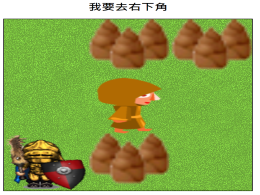
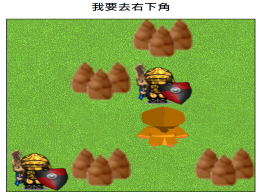
change title(batle) and size(4x4)

diff --git a/SimpleRPGPractice/main.js b/SimpleRPGPractice/main.js
@@ -1,12 +1,13 @@
 let mapArray, ctx, currentImgMain;
 let imgMountain, imgMain, imgEnemy;
-const gridLength = 200;
+const gridLength = 150;
 
 $(function(){
     mapArray = [
-        [0,1,1],
-        [0,0,0],
-        [3,1,2]
+        [0,0,1,0],
+        [0,1,3,0],
+        [0,0,0,0],
+        [3,1,2,1]
     ]; //0-可走、1-障礙、2-終點、3-敵人
     ctx = $("#myCanvas")[0].getContext("2d");
 
@@ -91,7 +92,7 @@ $(document).on("keydown",function(event){
     console.log(`TargetImag(${targetImag.x},${targetImag.y})`);
     console.log(`TargetBlcok(${targetImag.x},${targetImag.y})`);
 
-    if(targetImag.x<=400 && targetImag.x>=0 && targetImag.y <=400 && targetImag.y >=0){
+    if(targetImag.x<=450 && targetImag.x>=0 && targetImag.y <=450 && targetImag.y >=0){
         targetBlock.x = targetImag.y / gridLength;
         targetBlock.y = targetImag.x / gridLength;
     }else{
@@ -117,7 +118,9 @@ $(document).on("keydown",function(event){
                 currentImgMain.y = targetImag.y;
                 break;
             case 3:
-                $("#talkBox").text("哈摟");
+                $("#talkBox").text("Fight!");
+                currentImgMain.x = targetImag.x;
+                currentImgMain.y = targetImag.y;
                 break;
     }
     }else{
